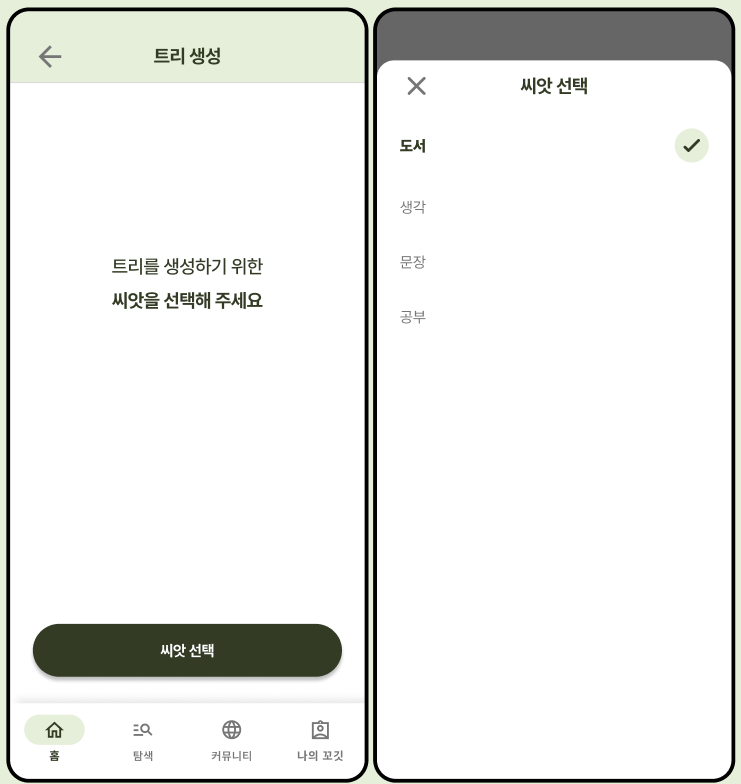
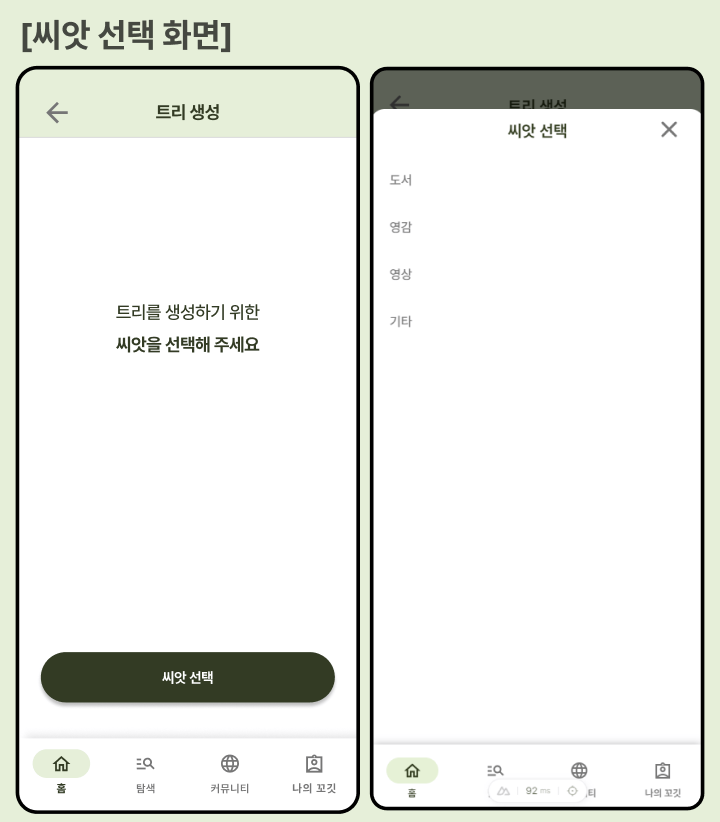
Update: 메인 리드미 작성

Changed region(s): [[0.0, 0.0, 1.0, 1.0], [0.1528, 0.3061, 0.3667, 0.4286], [0.6722, 0.9184, 0.7028, 0.949]]

diff --git a/backend-2/src/main/java/io/ggogit/ggogit/config/CorsConfig.java b/backend-2/src/main/java/io/ggogit/ggogit/config/CorsConfig.java
@@ -14,7 +14,7 @@ public class CorsConfig {
             @Override
             public void addCorsMappings(CorsRegistry registry) {
                 registry.addMapping("/**")
-                        .allowedOrigins("http://localhost:3000", "http://localhost:8080")
+                        .allowedOrigins("http://localhost:3000", "http://localhost:8080", "http://192.168.219.227:3000", "http://192.168.219.227:8080")
                         // .allowedOrigins("http://localhost:3000")
                         .allowedMethods("GET", "POST", "PUT", "PATCH", "DELETE", "OPTIONS")
                         .allowedHeaders("*");

diff --git a/README.md b/README.md
@@ -3,30 +3,30 @@
 ### 🎨 Designers
 <a href="https://github.com/TaegyuHan" style="display: block; margin-left: 30px; margin-bottom: 5px; font-family: 'Pretendard', sans-serif; font-weight: bold; font-size: 20px; color: #e5eddb;">
 <img src="docs/이미지/팀원깃헙프로필/김은서.png" style="width: 70px; margin-right:10px;  border-radius: 20px;" alt="김은서" width="50">
-김은서
+eunseoKim
 </a>
 
 ### 💻 Developers
 
 <a href="https://github.com/Jomalang" style="display: block; margin-left: 30px; margin-bottom: 5px; font-family: 'Pretendard', sans-serif; font-weight: bold; font-size: 20px; color: #e5eddb;">
-  <img src="docs/이미지/팀원깃헙프로필/조현진.png" style="width: 70px; margin-right:10px;  border-radius: 20px;" alt="조현진">
-  조현진
+  <img src="docs/이미지/팀원깃헙프로필/Jomalang.png" style="width: 70px; margin-right:10px;  border-radius: 20px;" alt="조현진">
+  Jomalang
 </a>
 <a href="https://github.com/TaegyuHan" style="display: block; margin-left: 30px; margin-bottom: 5px; font-family: 'Pretendard', sans-serif; font-weight: bold; font-size: 20px; color: #e5eddb;">
-  <img src="docs/이미지/팀원깃헙프로필/한태규.png" style="width: 70px; margin-right:10px;  border-radius: 20px;" alt="한태규">
-  한태규
+  <img src="docs/이미지/팀원깃헙프로필/TaegyuHan.png" style="width: 70px; margin-right:10px;  border-radius: 20px;" alt="한태규">
+  TaegyuHan
 </a>
 <a href="https://github.com/Gun-code" style="display: block; margin-left: 30px; margin-bottom: 5px; font-family: 'Pretendard', sans-serif; font-weight: bold; font-size: 20px; color: #e5eddb;">
-  <img src="docs/이미지/팀원깃헙프로필/이희권.png" style="width: 70px; margin-right:10px;  border-radius: 20px;" alt="이희권">
-  이희권
+  <img src="docs/이미지/팀원깃헙프로필/Gun-code.png" style="width: 70px; margin-right:10px;  border-radius: 20px;" alt="이희권">
+  Gun-code
 </a>
 <a href="https://github.com/jjustcodding" style="display: block; margin-left: 30px; margin-bottom: 5px; font-family: 'Pretendard', sans-serif; font-weight: bold; font-size: 20px; color: #e5eddb;">
-  <img src="docs/이미지/팀원깃헙프로필/장재영.png" style="width: 70px; margin-right:10px;  border-radius: 20px;" alt="장재영">
-  장재영
+  <img src="docs/이미지/팀원깃헙프로필/jjustcodding.png" style="width: 70px; margin-right:10px;  border-radius: 20px;" alt="장재영">
+  jjustcodding
 </a>
 <a href="https://github.com/pilpearl" style="display: block; margin-left: 30px; margin-bottom: 5px; font-family: 'Pretendard', sans-serif; font-weight: bold; font-size: 20px; color: #e5eddb;">
-  <img src="docs/이미지/팀원깃헙프로필/주진필.png" style="width: 70px; margin-right:10px;  border-radius: 20px;" alt="주진필">
-  주진필
+  <img src="docs/이미지/팀원깃헙프로필/pilpearl.png" style="width: 70px; margin-right:10px;  border-radius: 20px;" alt="주진필">
+  pilpearl
 </a>
 
 ---
@@ -68,25 +68,53 @@
 ### 프로젝트 주요 기능 및 기대효과
 - **기록 방식(트리 구조)**
 
-<img src="docs/이미지/메인리드미/기록%20방식%20예제.png" style="width: 300px;" alt="기록 방식">
-  
 꼬깃의 기록은 3단계를 거쳐 작성됩니다.
-1. 씨앗 생성(기록의 주제)\
-  씨앗은 기록의 대주제를 의미하며, '독서', '생각', '문장', '공부' 등의 주제로 구성됩니다.
+1. 씨앗 생성(기록의 주제)
 
 <img src="docs/이미지/메인리드미/기록방식_씨앗생성.png" style="width: 300px;" alt="기록 방식">
 
-2. 트리 생성(기록의 방향성)\
+씨앗은 기록의 대주제를 의미하며, '도서', '영감', '영상', '기타' 등의 주제로 구성됩니다.
+
+2. 트리 생성(기록의 방향성)
+
+<img src="docs/이미지/메인리드미/기록방식_트리생성.png" style="width: 300px; " alt="기록 방식">
+
   트리는 씨앗을 기준으로 세부적인 주제를 나누어 기록의 방향성을 설정하며,\
   '독서' 씨앗의 경우 알라딘 API 연동을 통해 도서 정보를 검색하며, 직접 도서를 등록하여 기록할 수 있습니다.\
-  그 외 '생각', '문장', '공부' 등의 씨앗의 경우 직접 주제를 생성하여 기록할 수 있습니다.\
-
-<img src="docs/이미지/메인리드미/기록방식_독서트리생성.png" style="width: 300px; " alt="기록 방식">
-
-<img src="docs/이미지/메인리드미/기록방식_etc트리생성.png" style="width: 400px; " alt="기록 방식">
+  그 외 '생각', '문장', '공부' 등의 씨앗의 경우 직접 주제를 생성하여 기록할 수 있습니다.
 
 3. 리프 생성(기록의 내용)
 
-- **기능 2**
+<img src="docs/이미지/메인리드미/기록방식_리프생성.png" style="width: 300px;" alt="기록 방식">
+
+ 리프는 트리를 기준으로 세부적인 내용을 작성하는 단계로, 씨앗의 종류에 맞는 기록의 내용을 작성하며, 이미지, 링크, 텍스트 등의 다양한 형식으로 기록할 수 있습니다.\
+ 또한, 리프의 경우 3진 트리 구조로 관리되어, 기록의 내용을 효율적으로 관리할 수 있습니다.
+
+4. 리프 조회 화면(기록의 확인)
+
+<img src="docs/이미지/메인리드미/기록%20방식%20예제.png" style="width: 300px;" alt="기록 방식">
+
+리프 조회 화면은 트리를 기준으로 작성된 리프의 내용을 확인할 수 있으며, 트리 구조를 직관적으로 확인할 수 있습니다.\
+또한, 활성화 된 리프(빨간점 표시)의 상세 정보를 확인 할 수 있으며, 해당 리프의 자식 리프를 기록할 수 있습니다.
+
+- **회고록 작성**
+
+<img src="docs/이미지/메인리드미/기록방식_회고록작성.png" style="width: 300px;" >
+
+꼬깃에서는 씨앗이 '도서'인 트리의 경우 독서 진행률이 80% 이상인 경우, 해당 도서에 대한 회고록을 작성할 수 있습니다.\
+독서 진행률은 총 페이지에서 중복되는 부분은 계산은 되지 않습니다.(ex. 100페이지 중 1 ~ 10페이지를 2번 읽은 경우 10페이지만 진행률에 포함)
+
 ### 프로젝트 환경 및 개발 언어
+
+<img src="docs/이미지/메인리드미/사용%20언어.png">
+ 
+- FrontEnd: HTML, CSS., JavaScript, Vue.js(3.5.13), Nuxt.js(3.13.2)
+- BackEnd: Java(21.0.3), Spring Boot(3.3.4), JPA, Spring Data JPA, QueryDSL(5.0.0)\
+Spring Security, JWT(0.11.2), OAuth2.0, Lombok
+- DataBase: H2, MariaDB
+- Operation System: Linux(Ubuntu 20.04), Docker
+- Tools: IntelliJ IDEA, WebStorm, Visual Studio Code, Git, GitHub, Figma, Notion, Draw.io, ERD Cloud
+
 ## 버전 및 업데이트 정보
+
+- 서비스 버전: 1.0.0
